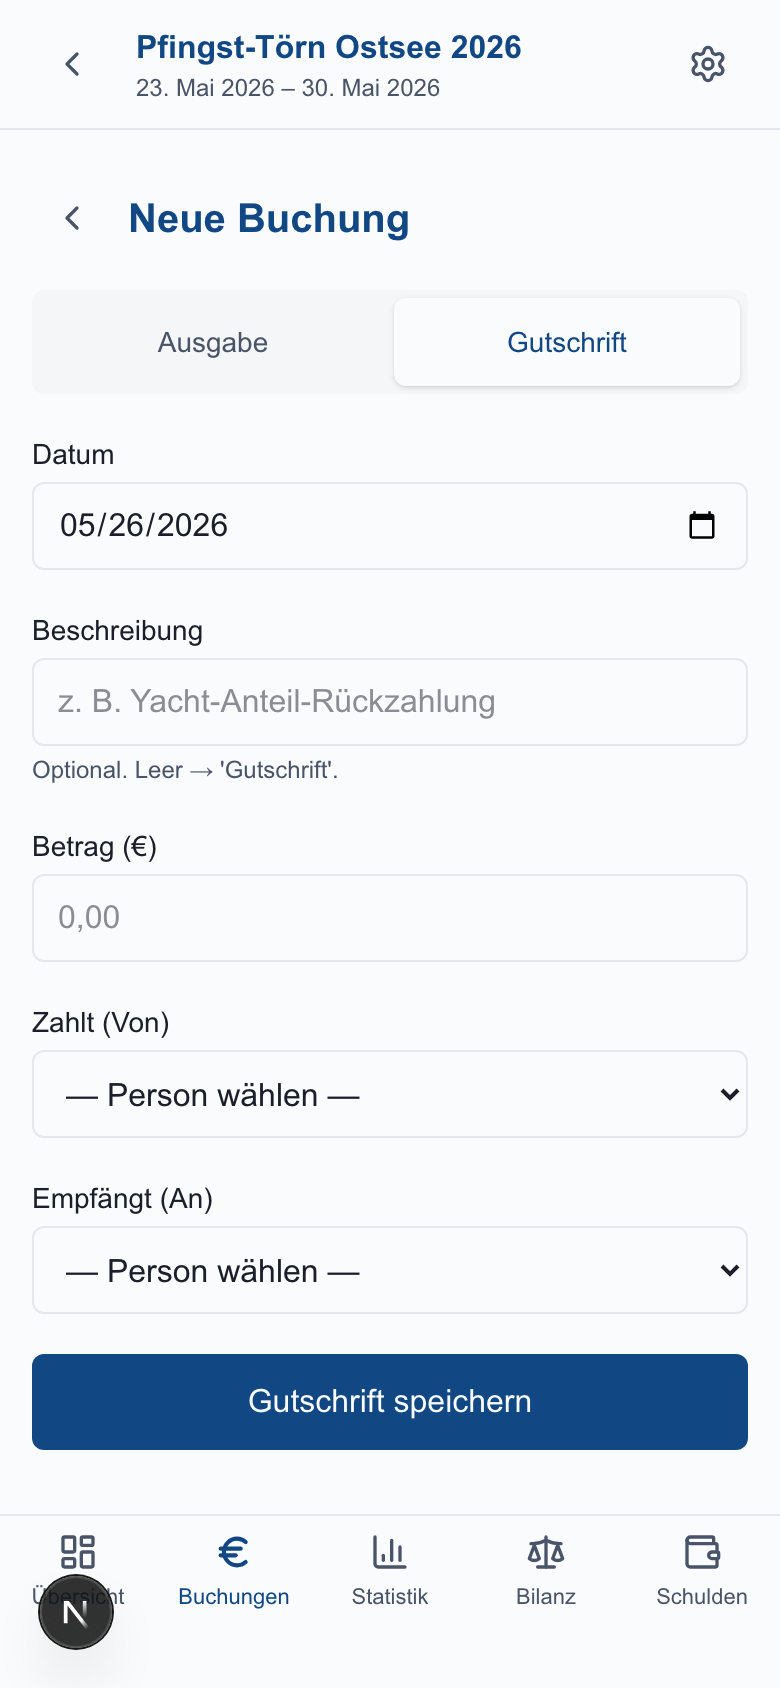
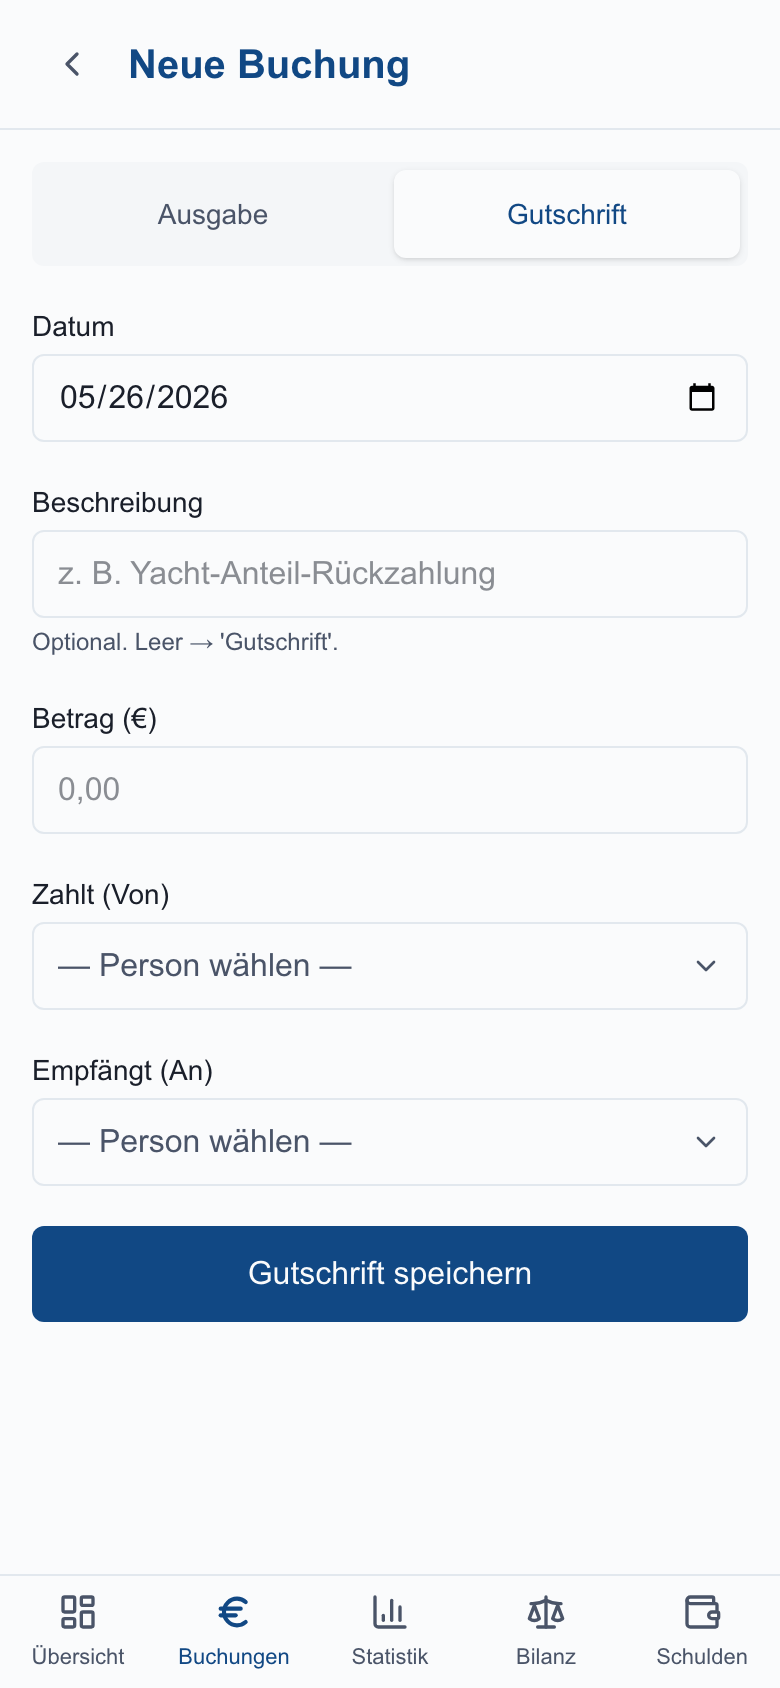
fix(webapp): /about-Screenshots aktualisiert
Inhaltliche Korrekturen:
- 5. Aufteilungslogik "Pro Person" (aus PR #51 ff.) ist jetzt im
  /about-Text + im Screenshot 06 sichtbar
- Trip-Cockpit (04) zeigt jetzt den SettlementStatus-Banner
  ("Törn vorbei — Abrechnung verschicken?"), weil der Demo-Trip
  ans gestrige Datum verschoben wurde
- Demo-Seed enthält eine neue "Pro Person"-Buchung
  (Strandrestaurant) für realistische Buchungs-Liste

Screenshot-Pflege:
- Next.js-Dev-Indicator ("N") und Mailpit-Hinweis per CSS-Inject
  im Playwright-Skript ausgeblendet
- Demo-Seed an aktuelles Schema angepasst (persons.email ist seit
  Migration 0013 in persons_private gewandert)

diff --git a/webapp/app/about/page.tsx b/webapp/app/about/page.tsx
@@ -72,12 +72,15 @@ const features: Feature[] = [
         <p>
           Die feste Bottom-Navigation bleibt überall sichtbar — Daumen-freundlich
           auch im Hafen-Trubel. Der dicke Plus-Button schwebt unten rechts und
-          öffnet die Buchungs-Eingabe in einem Schritt.
+          öffnet die Buchungs-Eingabe in einem Schritt. Nach Törn-Ende
+          erscheint oben ein Banner mit „Kaution prüfen + Abrechnung
+          verschicken" — die Crew bekommt dann eine Mail mit allen offenen
+          Schulden.
         </p>
       </>
     ),
     screenshot: "/about/04-trip-overview.png",
-    alt: "Trip-Cockpit mit Schnellzugriff-Kacheln und Bottom-Navigation",
+    alt: "Trip-Cockpit mit Settlement-Banner, Schnellzugriff und Bottom-Navigation",
   },
   {
     id: "buchungen",
@@ -97,15 +100,18 @@ const features: Feature[] = [
   },
   {
     id: "buchung-neu",
-    title: "Ausgaben buchen — 4 Aufteilungslogiken",
-    lead: "Jede Ausgabe lässt sich auf vier Arten verteilen: Gleichmäßig, nur An-Bord-Anwesende, Zeitanteilig oder Individuell.",
+    title: "Ausgaben buchen — 5 Aufteilungslogiken",
+    lead: "Jede Ausgabe lässt sich auf fünf Arten verteilen: Gleichmäßig, nur An-Bord-Anwesende, Zeitanteilig, Individuell oder Pro Person.",
     body: (
       <>
         <p>
-          Zusätzlich gibt es einen <strong>Alkohol-Anteil</strong>: Der
-          Alkohol-Teil eines Restaurant-Belegs zahlen nur die Trinker, der Rest
-          läuft nach der gewählten Aufteilung. Das Komma im Betrag versteht die
-          App selbstverständlich auf Deutsch.
+          „<strong>Pro Person</strong>" ist für Restaurants, in denen jede:r
+          die eigene Bestellung zahlt — der Gesamtbetrag ergibt sich aus den
+          Einzelbeträgen pro Person. Zusätzlich gibt es einen{" "}
+          <strong>Alkohol-Anteil</strong> (unter „Erweitert"): Den
+          Alkohol-Teil eines Belegs zahlen nur die Trinker, der Rest läuft
+          nach der gewählten Aufteilung. Das Komma im Betrag versteht die App
+          selbstverständlich auf Deutsch.
         </p>
       </>
     ),

diff --git a/webapp/scripts/take-screenshots.ts b/webapp/scripts/take-screenshots.ts
@@ -65,10 +65,36 @@ async function shot(page: Page, name: string) {
   console.log(`  ✔ ${name}.png`);
 }
 
+async function hideDevArtifacts(page: Page) {
+  // Next.js DevTools-Indicator + Mailpit-Hinweis erscheinen nur in
+  // `pnpm dev`, nicht in Production — fürs Screenshot raus.
+  await page.addStyleTag({
+    content: `
+      nextjs-portal,
+      [data-nextjs-dev-tools-button],
+      [data-next-mark],
+      #__next-build-watcher,
+      #__next-prerender-indicator,
+      [data-nextjs-toast],
+      [data-nextjs-dialog-overlay] { display: none !important; }
+    `,
+  }).catch(() => {});
+  await page.evaluate(() => {
+    document.querySelectorAll("p, a").forEach((el) => {
+      if (el.textContent?.includes("Mailpit")) {
+        const p = el.closest("p");
+        if (p) (p as HTMLElement).style.display = "none";
+      }
+    });
+  }).catch(() => {});
+}
+
 async function waitForLoad(page: Page) {
   await page.waitForLoadState("networkidle", { timeout: 15_000 }).catch(() => {});
   // Server Components rendern asynchron — kurze visuelle Pause
   await page.waitForTimeout(400);
+  await hideDevArtifacts(page);
+  await page.waitForTimeout(200);
 }
 
 async function main() {
